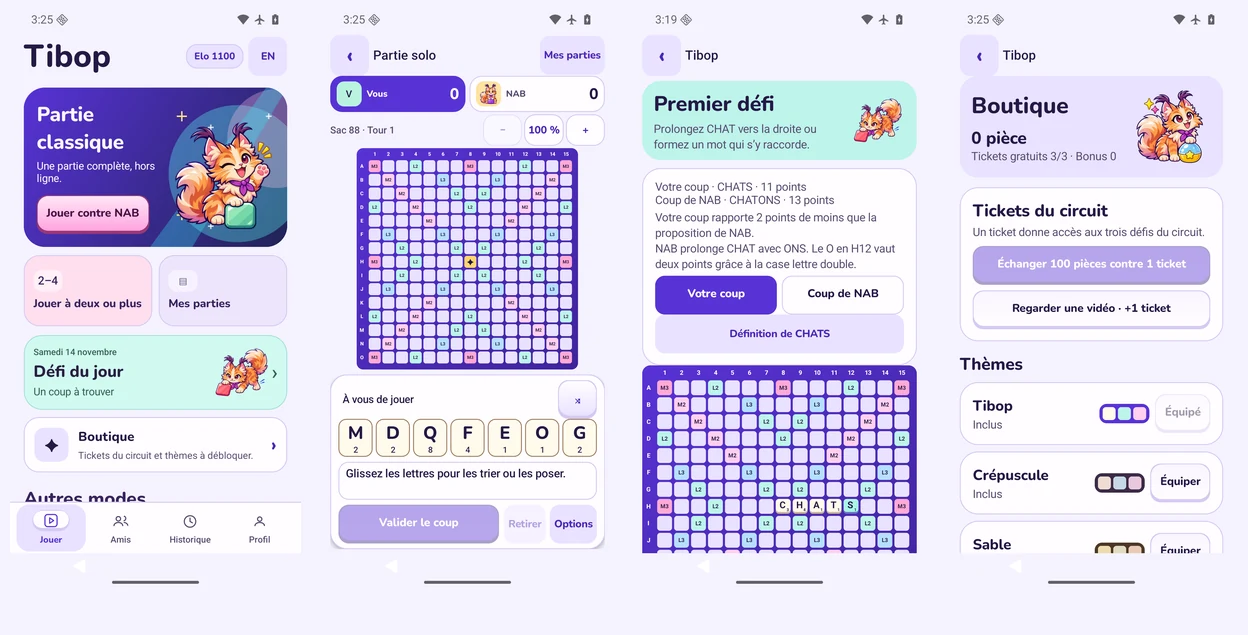
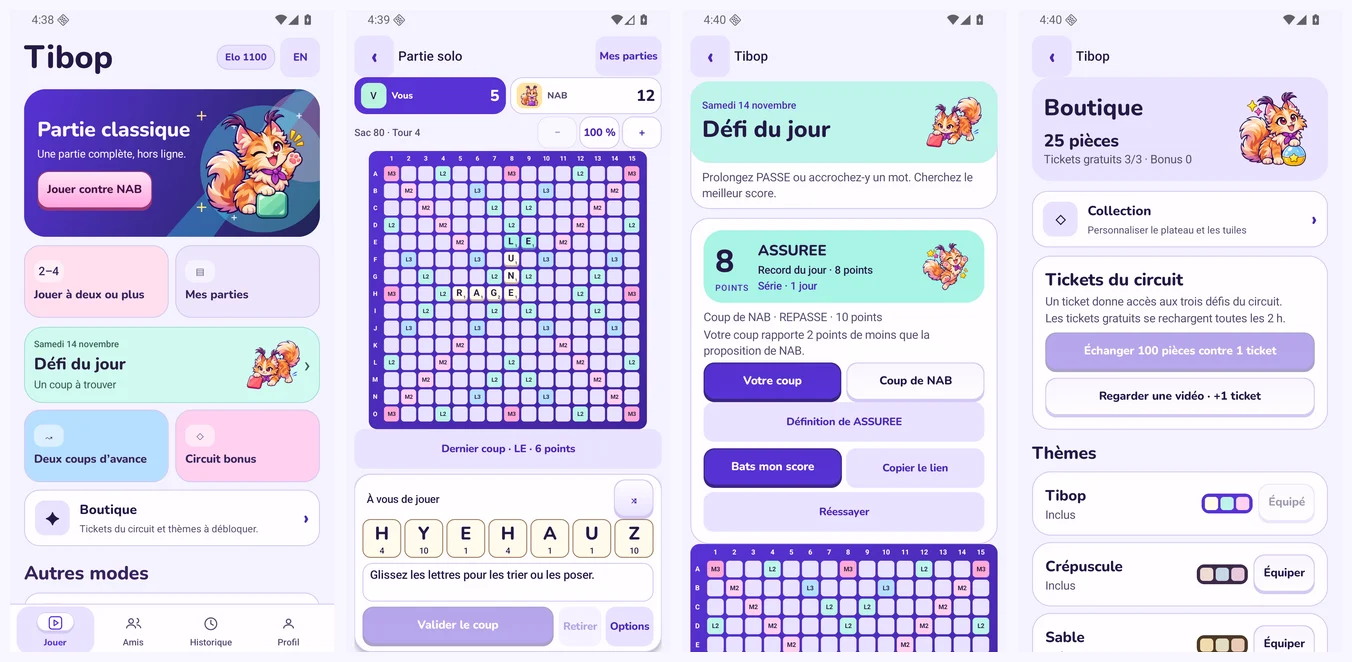
Publish Tibop links and Android gameplay previews

diff --git a/web/beta/index.html b/web/beta/index.html
@@ -17,7 +17,7 @@
     <h1 id="title">Bêta Android</h1>
     <p id="intro">Jouez une partie classique contre NAB, le Maine Coon de Tibop, ou retrouvez vos amis pour un duel.</p>
     <a class="action" id="open" hidden>Ouvrir dans Tibop</a>
-    <p class="download"><a href="https://github.com/nabz0r/scrabnble/releases/download/v0.16.6/Tibop-0.16.6.apk"><span id="download-label">Télécharger l’APK</span> 0.16.6</a></p>
+    <p class="download"><a href="https://github.com/nabz0r/Tibop/releases/download/v0.16.6/Tibop-0.16.6.apk"><span id="download-label">Télécharger l’APK</span> 0.16.6</a></p>
     <p class="detail" id="detail">Sur Android 8 ou plus récent, installez Tibop puis revenez ici pour connecter le jeu à la bêta.</p>
     <noscript><p>Activez JavaScript pour ouvrir la bêta dans Tibop.</p></noscript>
   </main>

diff --git a/android/share-site/index.html b/android/share-site/index.html
@@ -17,7 +17,7 @@
       <header class="hero"><h1>Bêta Android</h1></header>
       <div class="body">
         <p>Jouez une partie classique contre NAB, le Maine Coon de Tibop, ou défiez vos amis. Les défis et les définitions sont accessibles hors ligne.</p>
-        <a class="button primary" href="https://github.com/nabz0r/scrabnble/releases/download/v0.16.6/Tibop-0.16.6.apk">Télécharger l’APK 0.16.6</a>
+        <a class="button primary" href="https://github.com/nabz0r/Tibop/releases/download/v0.16.6/Tibop-0.16.6.apk">Télécharger l’APK 0.16.6</a>
         <div class="install">
           <p>Android 8 ou plus récent. Si vous avez installé la bêta précédente, ouvrez l’APK et choisissez <strong>Mettre à jour</strong> pour garder vos parties.</p>
         </div>

diff --git a/android/share-site/defi/index.html b/android/share-site/defi/index.html
@@ -28,7 +28,7 @@
         <div class="install">
           <p id="install">Sur Android, installe Tibop puis reviens à cette invitation.</p>
           <p id="changes">Le défi conserve le lexique du lien reçu.</p>
-          <a id="download" class="button" href="https://github.com/nabz0r/scrabnble/releases/download/v0.16.6/Tibop-0.16.6.apk"><span id="download-label">Télécharger l’APK</span> 0.16.6</a>
+          <a id="download" class="button" href="https://github.com/nabz0r/Tibop/releases/download/v0.16.6/Tibop-0.16.6.apk"><span id="download-label">Télécharger l’APK</span> 0.16.6</a>
         </div>
       </div>
     </article>

diff --git a/android/share-site/amis/index.html b/android/share-site/amis/index.html
@@ -21,7 +21,7 @@
           <a class="button primary" id="open">Ouvrir dans Tibop</a>
         </div>
         <p id="invalid">Ouvre le lien complet envoyé par ton ami pour retrouver l’invitation.</p>
-        <a id="download" class="button" href="https://github.com/nabz0r/scrabnble/releases/download/v0.16.6/Tibop-0.16.6.apk"><span id="download-label">Télécharger l’APK</span> 0.16.6</a>
+        <a id="download" class="button" href="https://github.com/nabz0r/Tibop/releases/download/v0.16.6/Tibop-0.16.6.apk"><span id="download-label">Télécharger l’APK</span> 0.16.6</a>
       </section>
     </article>
   </main>

diff --git a/web/index.html b/web/index.html
@@ -332,7 +332,7 @@
                 </div>
               </dl>
               <div class="export-actions">
-                <a class="button primary" href="https://github.com/nabz0r/scrabnble/releases/download/v0.16.6/Tibop-0.16.6.apk">Télécharger l’APK</a>
+                <a class="button primary" href="https://github.com/nabz0r/Tibop/releases/download/v0.16.6/Tibop-0.16.6.apk">Télécharger l’APK</a>
               </div>
             </section>
             <section class="panel" aria-labelledby="import-title">

diff --git a/src/server.rs b/src/server.rs
@@ -864,7 +864,7 @@ pub async fn serve(app_db: PathBuf, engine: Engine, address: String, web: PathBu
         downloads = match &apk {
             Some(apk) => downloads.route_service(path, ServeFile::new(apk)),
             None => downloads.route(path, get(|| async {
-                Redirect::temporary("https://github.com/nabz0r/scrabnble/releases/download/v0.16.6/Tibop-0.16.6.apk")
+                Redirect::temporary("https://github.com/nabz0r/Tibop/releases/download/v0.16.6/Tibop-0.16.6.apk")
             })),
         };
     }

diff --git a/android/README.md b/android/README.md
@@ -1,10 +1,10 @@
 # Tibop pour Android
 
-[Tibop 0.16.6](https://github.com/nabz0r/scrabnble/releases/tag/v0.16.6) est la bêta Android avec NAB le Maine Coon. Le jeu fonctionne en invité hors ligne à partir d’Android 8 (API 26). La bêta conserve l’identifiant Android et la signature des éditions distribuées en APK direct.
+[Tibop 0.16.6](https://github.com/nabz0r/Tibop/releases/tag/v0.16.6) est la bêta Android avec NAB le Maine Coon. Le jeu fonctionne en invité hors ligne à partir d’Android 8 (API 26). La bêta conserve l’identifiant Android et la signature des éditions distribuées en APK direct.
 
 ## Tester la bêta sur son téléphone
 
-1. Sur Android, [téléchargez Tibop 0.16.6](https://github.com/nabz0r/scrabnble/releases/download/v0.16.6/Tibop-0.16.6.apk) et ouvrez le fichier. Si Android le demande, autorisez l’installation depuis le navigateur ou l’application Fichiers. Gardez la bêta précédente installée et choisissez **Mettre à jour** pour conserver vos parties et votre progression.
+1. Sur Android, [téléchargez Tibop 0.16.6](https://github.com/nabz0r/Tibop/releases/download/v0.16.6/Tibop-0.16.6.apk) et ouvrez le fichier. Si Android le demande, autorisez l’installation depuis le navigateur ou l’application Fichiers. Gardez la bêta précédente installée et choisissez **Mettre à jour** pour conserver vos parties et votre progression.
 2. En français, ouvrez **Jouer contre NAB** ou **Jouer à deux ou plus** et démarrez une nouvelle partie. Faites glisser une tuile du chevalet sur une autre pour déplacer la première. Faites ensuite glisser une tuile sur le plateau. Quittez l’application en cours de tour et touchez **Reprendre ma partie** pour retrouver l’ordre des lettres et le brouillon.
 3. Pour tester le lexique, si le tirage le permet, essayez `KM` ou `KG` sur la case centrale, puis un mot courant comme `AS` ou `CHAT`. Le jeu indique le motif du refus ou le score du coup. Le filtre s’applique aux nouvelles parties classiques en français.
 4. Pour un duel avec le lexique filtré, installez tous les deux la mise à jour et ouvrez **Amis** pour vous connecter avant de lancer un nouveau duel. Les liens d’amitié déjà envoyés s’utilisent comme avant.
@@ -18,7 +18,7 @@
 - **Circuit bonus / Bonus Circuit** propose neuf positions par langue, réparties en trois parcours. Chaque nouveau parcours prend la suite du précédent. Après le troisième, la rotation recommence. La première entrée est offerte sur l’appareil. Un ticket couvre ensuite le circuit complet, y compris sa reprise. La réserve de trois tickets gratuits récupère un ticket toutes les deux heures. Les pièces et tickets sont communs aux deux langues, et chaque circuit se reprend dans sa langue. La vidéo facultative de démonstration ouvre un ticket par jour.
 - Gagnez **25 pièces** sur le défi du jour, **50** à la première réussite de chaque défi du catalogue et **75** sur une coupe terminée. Échangez **100 pièces** contre un ticket dans le circuit ou débloquez les thèmes **Nuit indigo** et **Coquelicot** dans les réglages. Les achats en argent réel sont désactivés. Le circuit conserve son meilleur score dans chaque langue. Si le deuxième coup est impossible, le jeu propose de reprendre le premier.
 - Le parrainage crédite un ticket à un nouveau joueur après le premier duel terminé avec son parrain. Le parrain peut obtenir trois tickets de parrainage par mois et par compte social. Le crédit apparaît au prochain chargement de **Amis** ou du duel.
-- **Bats mon score** partage une carte PNG avec la date, le score et, lorsqu’elle s’applique, la série. Le lien associé mène à une [page d’invitation](https://nabz0r.github.io/scrabnble/defi/). L’application ouvre la langue et la position du défi, puis compare le coup du destinataire au score partagé. **Copier le lien** est disponible pour les messageries qui séparent les images du texte. Une invitation pour une autre date se joue hors série.
+- **Bats mon score** partage une carte PNG avec la date, le score et, lorsqu’elle s’applique, la série. Le lien associé mène à la [page d’invitation](https://nabz0r.github.io/Tibop/defi/). L’application ouvre la langue et la position du défi, puis compare le coup du destinataire au score partagé. **Copier le lien** est disponible pour les messageries qui séparent les images du texte. Une invitation pour une autre date se joue hors série.
 - **Profil** réunit le pseudo, la photo, le pays, l’âge et le sexe, tous facultatifs. Les exploits se débloquent à partir de vos parties et de vos défis. La photo, le pays, l’âge et le sexe restent sur cet appareil.
 - **Amis** propose une invitation à usage unique, des duels à un coup sur un plateau commun, la revanche et un classement calculé sur les duels terminés entre membres de votre cercle d’amis. Chaque joueur peut annuler un duel en cours pour les deux participants. Touchez **Actualiser** pour revoir l’état d’un duel en attente après une coupure. Si le duel est devenu indisponible, **Retour aux duels** recharge la liste. Une fois les deux coups envoyés, le résultat permet de comparer les scores et les placements sur le plateau.
 - **Notifications de tour** s’active dans **Amis** ou **Profil → Réglages**. Touchez l’alerte pour retrouver le duel. Une seule alerte est émise par duel en attente. Tibop vérifie les espaces FR et EN dans lesquels un compte est déjà connecté. Toucher une alerte ouvre le duel dans sa langue. Le délai en arrière-plan peut dépasser 15 minutes selon les réglages de batterie d’Android. [Planification Android](https://developer.android.com/reference/androidx/work/PeriodicWorkRequest)

diff --git a/README.md b/README.md
@@ -7,8 +7,8 @@
 <p align="center">Affrontez NAB, le Maine Coon, dans un jeu de lettres classique pour Android. Jouez en français ou en anglais et revenez sur vos meilleurs coups.</p>
 
 <p align="center">
-  <strong><a href="https://github.com/nabz0r/scrabnble/releases/download/v0.16.6/Tibop-0.16.6.apk">Télécharger Tibop 0.16.6</a></strong> ·
-  <a href="https://nabz0r.github.io/scrabnble/">Page de la bêta</a> ·
+  <strong><a href="https://github.com/nabz0r/Tibop/releases/download/v0.16.6/Tibop-0.16.6.apk">Télécharger Tibop 0.16.6</a></strong> ·
+  <a href="https://nabz0r.github.io/Tibop/">Page de la bêta</a> ·
   <a href="android/README.md">Guide Android</a> ·
   <a href="#tibop-studio">Studio sur Mac</a>
 </p>
@@ -18,8 +18,17 @@
 </p>
 
 <p align="center">
-  <img src="docs/media/tibop-android.webp" width="690" alt="Accueil de Tibop avec NAB, plateau d’une partie solo et résultat du défi du jour">
+  <a href="docs/media/tibop-android.webp"><img src="docs/media/tibop-android.webp" width="760" alt="Accueil de Tibop avec NAB, plateau d’une partie solo, résultat d’un défi et boutique"></a>
 </p>
+
+## Aperçus Android
+
+<p align="center">
+  <a href="docs/media/tibop-gameplay-solo.gif"><img src="docs/media/tibop-gameplay-solo.gif" width="280" alt="Une pose en solo suivie du coup de NAB"></a>
+  <a href="docs/media/tibop-defi-quotidien.gif"><img src="docs/media/tibop-defi-quotidien.gif" width="258" alt="Un défi du jour, de la pose du mot au résultat"></a>
+</p>
+
+[Partie solo contre NAB](docs/media/tibop-gameplay-solo.gif) · [Défi du jour](docs/media/tibop-defi-quotidien.gif)
 
 ## Jouer sur Android
 
@@ -58,7 +67,7 @@ Sur le Mac, installez Docker Desktop, Python 3 et `zstd`, puis lancez le studio 
 Le premier démarrage charge les campagnes fournies. [Ouvrir le studio sur le Mac](http://127.0.0.1:8787/index.html) · [Ouvrir les salons](http://127.0.0.1:8787/) · [Architecture et API](docs/ARCHITECTURE.md)
 
 <p align="center">
-  <img src="docs/media/duel-en-direct.png" width="570" alt="Capture du studio montrant un duel en cours, le plateau, les scores et la liste des coups">
+  <a href="docs/media/duel-en-direct.png"><img src="docs/media/duel-en-direct.png" width="570" alt="Capture du studio montrant un duel en cours, le plateau, les scores et la liste des coups"></a>
 </p>
 
 ### Ce que le laboratoire mesure

diff --git a/infra/README.beta.md b/infra/README.beta.md
@@ -2,7 +2,7 @@
 
 La bêta dispose de son propre projet Compose et de son volume `lettrine-beta_beta_social_data`. Le français conserve sa base SQLite. L’anglais utilise une seconde base, `social.sqlite.en` par défaut, dans le même volume. Le tunnel HTTPS vers Nginx dessert `/beta`, `/health`, `/api/social/` pour le français et `/api/social-en/` pour l’anglais. Nginx limite le débit global et par adresse, avec un plafond séparé pour les inscriptions.
 
-Pour installer la bêta, ouvrez la [page de téléchargement stable](https://nabz0r.github.io/scrabnble/). L’adresse du tunnel sert à connecter **Amis** aux duels et tournois.
+Pour installer la bêta, ouvrez la [page de téléchargement stable](https://nabz0r.github.io/Tibop/). L’adresse du tunnel sert à connecter **Amis** aux duels et tournois.
 
 ## Ouvrir une session de bêta
 
@@ -17,7 +17,9 @@ Cette adresse de test reste valable tant que le connecteur tourne. Le Mac et Doc
 
 ## Mettre à jour la bêta
 
-La publication GitHub de Tibop distribue un seul APK signé depuis `main`. Le mini-site public est servi depuis `gh-pages`. Ses pages sources se trouvent dans `android/share-site/`. La page de connexion au serveur, `/beta`, est lue depuis `web/beta/`. Les deux pages téléchargent le même APK. Le studio redirige aussi vers cet APK via `/download/tibop.apk`.
+La [publication GitHub de Tibop](https://github.com/nabz0r/Tibop/releases/tag/v0.16.6) distribue un seul APK signé depuis `main`. Le mini-site public est servi depuis `gh-pages`. Ses pages sources se trouvent dans `android/share-site/`. La page de connexion au serveur, `/beta`, est lue depuis `web/beta/`. Les deux pages téléchargent le même APK. Le studio redirige aussi vers cet APK via `/download/tibop.apk`.
+
+Le site Pages de compatibilité redirige les anciens liens `/scrabnble/`, `/scrabnble/amis/` et `/scrabnble/defi/` vers le site Tibop en conservant les paramètres des invitations générées par l’APK 0.16.6.
 
 Recompilez le service social seul pour conserver le proxy, le tunnel en service et les données des deux langues. Si la configuration Nginx évolue, vérifiez-la puis rechargez le proxy en place.
 

diff --git a/docs/SIMULATION_FISF.md b/docs/SIMULATION_FISF.md
@@ -103,6 +103,6 @@ Pour un examen sur ODS 9, indiquez dans `LETTRINE_FISF_WORDS` un fichier intégr
 
 ## Android
 
-Dans Tibop, **Profil → Réglages → Lexique personnel** accepte une liste autorisée pour les parties hors ligne. L’écran affiche le nombre de formes importées et permet de copier l’empreinte de la liste normalisée. Les parties d’entraînement restent associées à cette empreinte. Le banc avec la pendule et l’arbitrage tourne dans le laboratoire. [Bêta Android de Tibop](https://nabz0r.github.io/scrabnble/)
+Dans Tibop, **Profil → Réglages → Lexique personnel** accepte une liste autorisée pour les parties hors ligne. L’écran affiche le nombre de formes importées et permet de copier l’empreinte de la liste normalisée. Les parties d’entraînement restent associées à cette empreinte. Le banc avec la pendule et l’arbitrage tourne dans le laboratoire. [Bêta Android de Tibop](https://nabz0r.github.io/Tibop/)
 
 Le banc mesure la stratégie de jeu de NAB Recherche avancée. Sur Android, SmolLM2 135M Instruct sélectionne sur demande un détail de l’explication vérifiée par le moteur, comme les mots croisés, une case bonus ou un joker. L’essai sur deux versions de l’APK mesure l’utilité de ce choix pour expliquer le score et le délai de réponse en mode avion. [Essai dans l’APK](SIMULATIONS_ANDROID.md#mesures-du-modèle-embarqué) · [Modèle embarqué et licences](../android/app/src/main/assets/SmolLM2-NOTICE.md)
